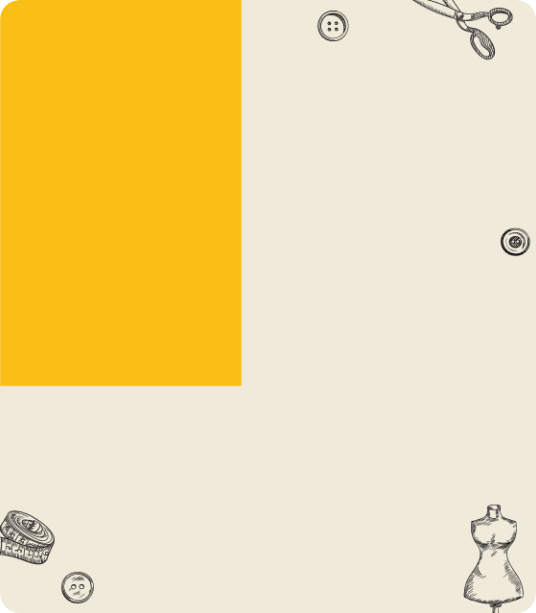
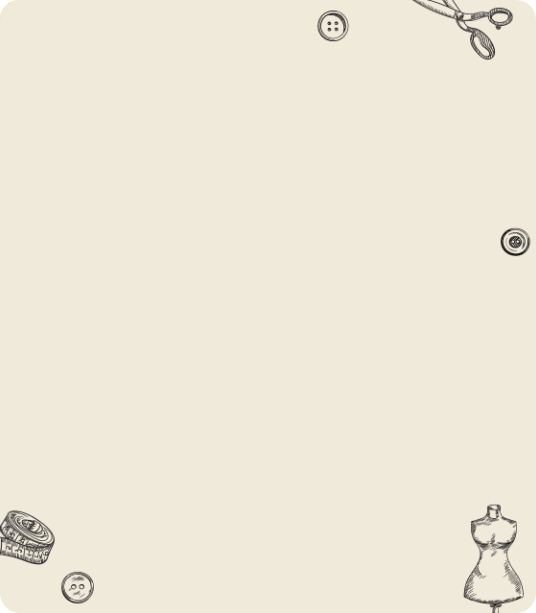
fix background

Changed region(s): [[0.0, 0.0, 0.4776, 0.6509]]

diff --git a/assets/js/scripts.js b/assets/js/scripts.js
@@ -1,197 +1,93 @@
 document.addEventListener("DOMContentLoaded", function () {
-    const bannerSlide = new Swiper(".banner-slide", {
-        autoplay: {
-            delay: 5000,
-        },
-    });
+  const bannerSlide = new Swiper(".banner-slide", {
+    autoplay: {
+      delay: 5000,
+    },
+  });
 
-    const abc = new Swiper(".course-slide", {
-        pagination: {
-            el: ".swiper-pagination",
-            type: "bullets",
-            clickable: true,
-        },
-        navigation: {
-            nextEl: ".swiper-button-next",
-            prevEl: ".swiper-button-prev",
-        },
+  const abc = new Swiper(".course-slide", {
+    pagination: {
+      el: ".swiper-pagination",
+      type: "bullets",
+      clickable: true,
+    },
+    navigation: {
+      nextEl: ".swiper-button-next",
+      prevEl: ".swiper-button-prev",
+    },
+    autoplay: {
+      delay: 10000,
+    },
 
-        slidesPerView: 2,
-        centeredSlides: true,
-        paginationClickable: true,
-        loop: true,
+    slidesPerView: 2,
+    centeredSlides: true,
+    paginationClickable: true,
+    loop: true,
+    spaceBetween: 0,
+    slideToClickedSlide: true,
+    speed: 500,
+    effect: "coverflow",
+    // Responsive breakpoints
+    breakpoints: {
+      // when window width is >= 320px
+      320: {
+        slidesPerView: 1,
         spaceBetween: 0,
-        slideToClickedSlide: true,
-        speed: 500,
-        effect: "coverflow",
-        // Responsive breakpoints
-        breakpoints: {
-            // when window width is >= 320px
-            320: {
-                slidesPerView: 1,
-                spaceBetween: 0,
-            },
-            // when window width is >= 480px
-            480: {
-                slidesPerView: 1,
-                spaceBetween: 0,
-            },
-            // when window width is >= 640px
-            991: {
-                slidesPerView: 2,
-                spaceBetween: 0,
-            },
-        },
-    });
+      },
+      // when window width is >= 480px
+      480: {
+        slidesPerView: 1,
+        spaceBetween: 0,
+      },
+      // when window width is >= 640px
+      991: {
+        slidesPerView: 2,
+        spaceBetween: 0,
+      },
+    },
+  });
 
-    // countdown
-    function getTimeRemaining(endtime) {
-        const t = Date.parse(endtime) - Date.parse(new Date());
-        const seconds = Math.floor((t / 1000) % 60);
-        const minutes = Math.floor((t / 1000 / 60) % 60);
-        const hours = Math.floor((t / (1000 * 60 * 60)) % 24);
-        const days = Math.floor(t / (1000 * 60 * 60 * 24));
-        return {
-            total: t,
-            days: days,
-            hours: hours,
-            minutes: minutes,
-            seconds: seconds,
-        };
+  // countdown
+  function getTimeRemaining(endtime) {
+    const t = Date.parse(endtime) - Date.parse(new Date());
+    const seconds = Math.floor((t / 1000) % 60);
+    const minutes = Math.floor((t / 1000 / 60) % 60);
+    const hours = Math.floor((t / (1000 * 60 * 60)) % 24);
+    const days = Math.floor(t / (1000 * 60 * 60 * 24));
+    return {
+      total: t,
+      days: days,
+      hours: hours,
+      minutes: minutes,
+      seconds: seconds,
+    };
+  }
+
+  function initializeClock(id, endtime) {
+    const daysSpan = document.querySelector("#days");
+    const hoursSpan = document.querySelector("#hours");
+    const minutesSpan = document.querySelector("#minutes");
+    const secondsSpan = document.querySelector("#seconds");
+
+    function updateClock() {
+      const t = getTimeRemaining(endtime);
+
+      if (t.total <= 0) {
+        clearInterval(timeinterval);
+        const deadline = new Date(Date.parse(new Date()) + 6 * 1000);
+        initializeClock("countdown", deadline);
+      }
+
+      daysSpan.innerHTML = t.days;
+      hoursSpan.innerHTML = ("0" + t.hours).slice(-2);
+      minutesSpan.innerHTML = ("0" + t.minutes).slice(-2);
+      secondsSpan.innerHTML = ("0" + t.seconds).slice(-2);
     }
 
-    function initializeClock(id, endtime) {
-        const daysSpan = document.querySelector("#days");
-        const hoursSpan = document.querySelector("#hours");
-        const minutesSpan = document.querySelector("#minutes");
-        const secondsSpan = document.querySelector("#seconds");
-
-        function updateClock() {
-            const t = getTimeRemaining(endtime);
-
-            if (t.total <= 0) {
-                clearInterval(timeinterval);
-                const deadline = new Date(Date.parse(new Date()) + 6 * 1000);
-                initializeClock("countdown", deadline);
-            }
-
-            daysSpan.innerHTML = t.days;
-            hoursSpan.innerHTML = ("0" + t.hours).slice(-2);
-            minutesSpan.innerHTML = ("0" + t.minutes).slice(-2);
-            secondsSpan.innerHTML = ("0" + t.seconds).slice(-2);
-        }
-
-        updateClock();
-        const timeinterval = setInterval(updateClock, 1000);
-    }
-
-    // 5 days = 432000000 seconds
-    var senconds = document.getElementById('timeconlai').getAttribute('value');
-    const deadline = new Date(Date.parse(new Date()) + parseInt(senconds) * 1000);
-    initializeClock("countdown", deadline);
-});
-
-jQuery(document).ready(function ($) {
-
-    $('#form-register').on('submit', function (e) {
-        e.preventDefault();
-
-        var $form = $(this);
-        var data = jQuery(this).serialize();
-        jQuery.ajax({
-            action: 'submit_register_course',
-            type: "POST",
-            url: "/wp-admin/admin-ajax.php",
-            data: data,
-            success: function (data) {
-                var data = JSON.parse(data);
-                if (data.error) {
-                    alert('Đăng ký thất bại');
-                } else {
-                    alert("Đăng ký thành công");
-                }
-            },
-            fail: function (err) {
-                alert('Đăng ký thất bại');
-            }
-        });
-    });
-    var currentPage = 1;
-    var totalPage = 0;
-
-    function fetchImages(page = 1) {
-        jQuery.ajax({
-            type: "GET",
-            url: "/wp-json/v1/images/get",
-            data: {
-                per_page: 6,
-                page: page
-            },
-            success: function (data, textStatus, request) {
-                totalPage = data.total_pages;
-                var total = data.total;
-                var images = data.data;
-                currentPage = data.current_page;
-                renderImages(images);
-                renderPagination(totalPage);
-            },
-            fail: function (err) {
-
-            }
-        });
-    }
-
-    var rootImage = $('#root-images');
-
-    function renderImages(images) {
-        var html = '';
-        for (var i = 0; i < images.length; i++) {
-            var image = images[i];
-            html += `<div class="col-md-6 col-lg-4">
-                        <a data-fancybox="gallery" href="${image.thumbnail}">
-                            <img class="img-fluid" src="${image.thumbnail}">
-                        </a>
-                    </div>`;
-        }
-        rootImage.html(html);
-    }
-
-    var rootPagination = $('#root-pagination');
-
-    function renderPagination(numberPage) {
-        var previousPage = (parseInt(currentPage) - 1) <= 0 ? 1 : (parseInt(currentPage) - 1);
-        var html = `<li class="page-item">
-                                    <a class="page-link" value="${previousPage}" aria-label="Previous">
-                                        <span aria-hidden="true">&laquo;</span>
-                                        <span class="sr-only">Previous</span>
-                                    </a>
-                                </li>`;
-        for (var i = 1; i <= numberPage; i++) {
-            if (i == currentPage) {
-                html += `<li class="page-item active">
-                                    <p class="page-link">${i}</p>
-                                </li>`;
-            } else {
-                html += ` <li class="page-item"><a class="page-link" value="${i}">${i}</a></li>`;
-            }
-        }
-
-        var nextPage = (currentPage < totalPage) ? parseInt(currentPage) + 1 : totalPage;
-        html += ` <li class="page-item">
-                                    <a class="page-link" value="${nextPage}" aria-label="Next">
-                                        <span aria-hidden="true">&raquo;</span>
-                                        <span class="sr-only">Next</span>
-                                    </a>
-                                </li>`;
-        rootPagination.html(html);
-    }
-
-    $('body').on('click', 'a.page-link', function (e) {
-        e.preventDefault();
-        var page = $(this).attr('value');
-        fetchImages(page);
-    });
-
-    fetchImages();
-
+    updateClock();
+    const timeinterval = setInterval(updateClock, 1000);
+  }
+  // 5 days = 432000000 seconds
+  const deadline = new Date(Date.parse(new Date()) + 432000000);
+  initializeClock("countdown", deadline);
 });

diff --git a/assets/css/styles.css b/assets/css/styles.css
@@ -552,7 +552,7 @@ header {
   background-color: #f2f2f2; }
   @media (max-width: 1023px) {
     .inner-content {
-      padding: 4rem 2rem; } }
+      padding: 4rem 0rem; } }
 
 .info {
   padding-top: 6rem;
@@ -582,8 +582,8 @@ header {
   .info__heading .register-btn {
     top: unset;
     right: unset;
-    bottom: 25%;
-    left: 44%;
+    bottom: 14%;
+    left: 32%;
     position: absolute;
     -webkit-transform: translateX(-50%);
     transform: translateX(-50%);
@@ -852,6 +852,24 @@ header {
       color: #000000;
       margin: 0 auto;
       display: table; }
+    .course-slide .swiper-slide:after {
+      content: "";
+      position: absolute;
+      top: 0;
+      left: 0;
+      width: 161px;
+      height: 300px;
+      background-color: #f9bf15;
+      border-radius: 20px 0 0 0;
+      z-index: -1; }
+      @media (max-width: 767px) {
+        .course-slide .swiper-slide:after {
+          height: 255px !important;
+          width: 40% !important; } }
+      @media (max-width: 1023px) {
+        .course-slide .swiper-slide:after {
+          height: 400px;
+          width: 40%; } }
   .course-slide .swiper-button-prev {
     bottom: 0;
     top: unset;
@@ -859,7 +877,8 @@ header {
     color: #000000;
     left: 0;
     -webkit-transform: translateX(400%);
-    transform: translateX(400%); }
+    transform: translateX(400%);
+    outline: none; }
     .course-slide .swiper-button-prev:after {
       content: ""; }
     .course-slide .swiper-button-prev i {
@@ -871,7 +890,8 @@ header {
     color: #000000;
     right: 0;
     -webkit-transform: translateX(-400%);
-    transform: translateX(-400%); }
+    transform: translateX(-400%);
+    outline: none; }
     .course-slide .swiper-button-next:after {
       content: ""; }
     .course-slide .swiper-button-next i {
@@ -882,15 +902,18 @@ header {
     border: 1px solid #000000;
     background-color: transparent;
     width: 12px;
-    height: 12px; }
+    height: 12px;
+    border-radius: 50%; }
   .course-slide .swiper-pagination-bullet.swiper-pagination-bullet-active {
-    background-color: #000000; }
-  .course-slide .swiper-slide-active {
-    -webkit-transform: scale(1.1) !important;
-    transform: scale(1.1) !important; }
-    .course-slide .swiper-slide-active .btn--wave:before {
-      -webkit-animation: waves 1s infinite !important;
-      animation: waves 1s infinite !important; }
+    background-color: #000000;
+    border-radius: 50%; }
+  @media (min-width: 1025px) {
+    .course-slide .swiper-slide-active {
+      -webkit-transform: scale(1.1) !important;
+      transform: scale(1.1) !important; } }
+  .course-slide .swiper-slide-active .btn--wave:before {
+    -webkit-animation: waves 1s infinite !important;
+    animation: waves 1s infinite !important; }
   .course-slide .swiper-slide .btn--wave:before {
     -webkit-animation: unset;
     animation: unset; }
@@ -923,7 +946,7 @@ header {
   -ms-flex-pack: justify;
   justify-content: space-between; }
   .slide-content__heading span:first-child {
-    width: 40%;
+    width: 43%;
     text-align: center;
     display: -webkit-box;
     display: -ms-flexbox;
@@ -942,8 +965,7 @@ header {
   .slide-content__heading span:last-child {
     -webkit-box-flex: 1;
     -ms-flex: 1;
-    flex: 1;
-    padding: 0 0 0 1.2rem; }
+    flex: 1; }
   .slide-content__heading p {
     font-size: 1.4rem;
     font-weight: 400;
